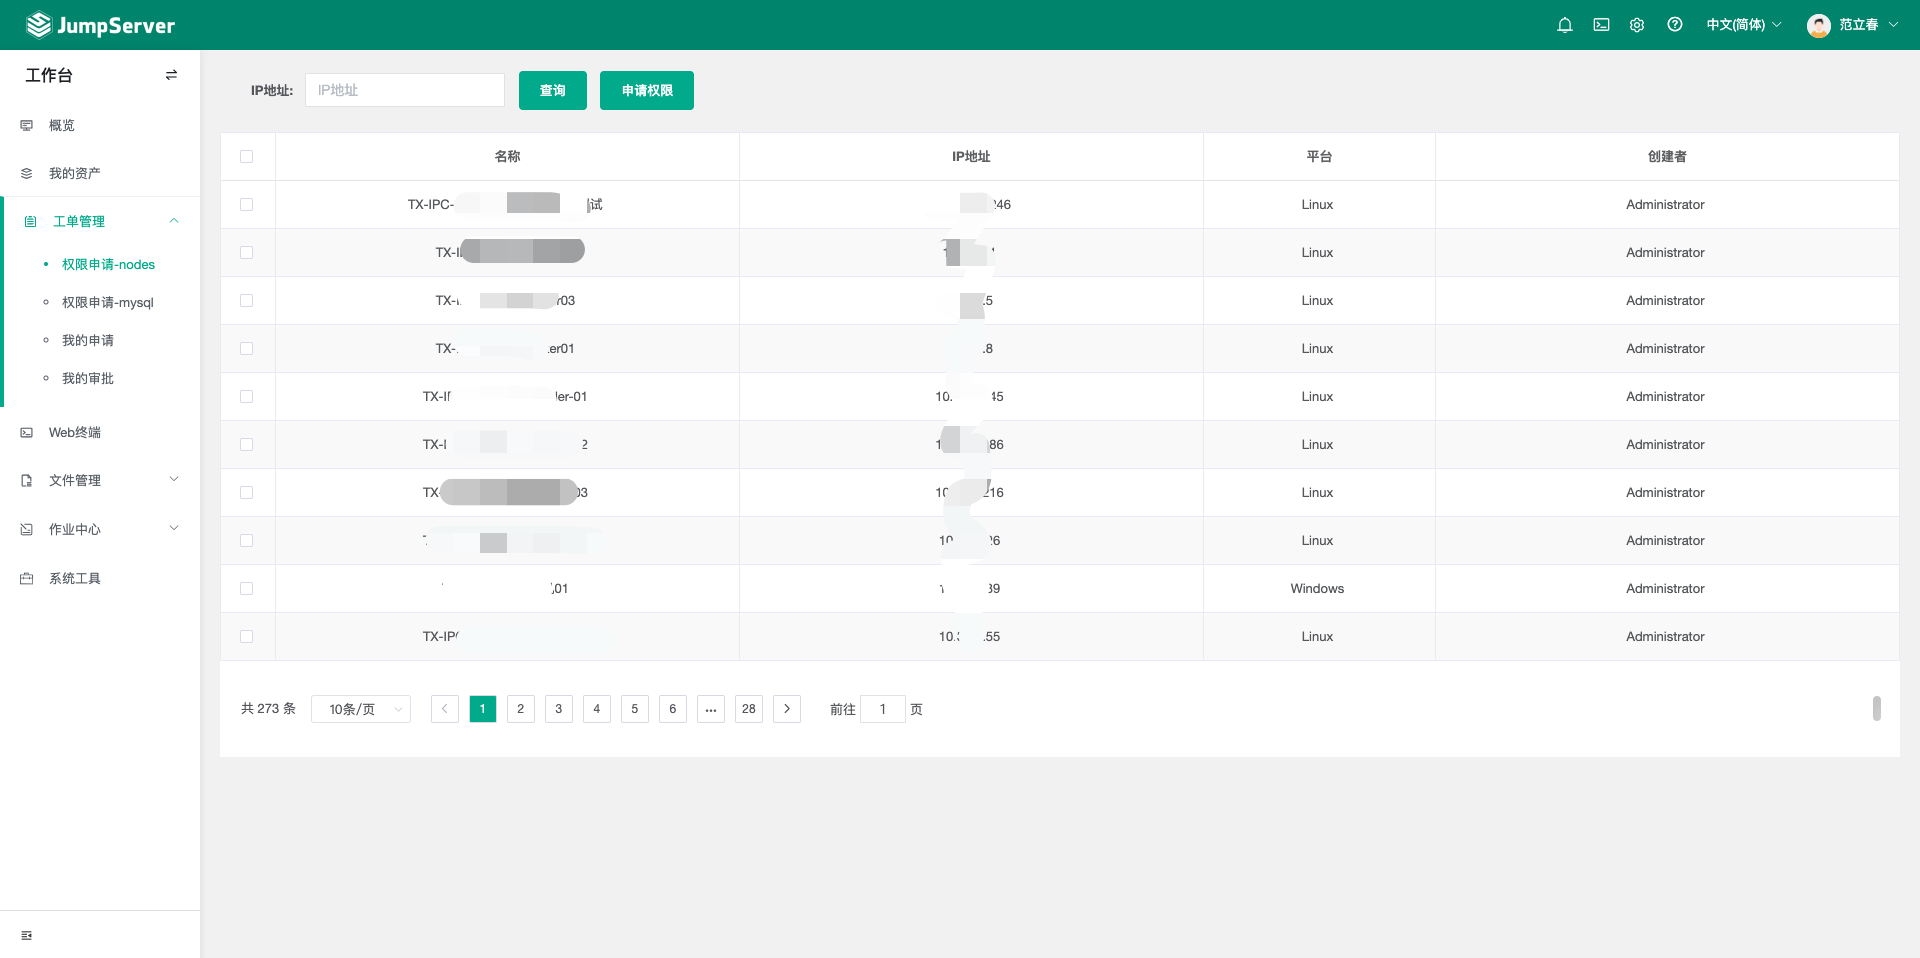
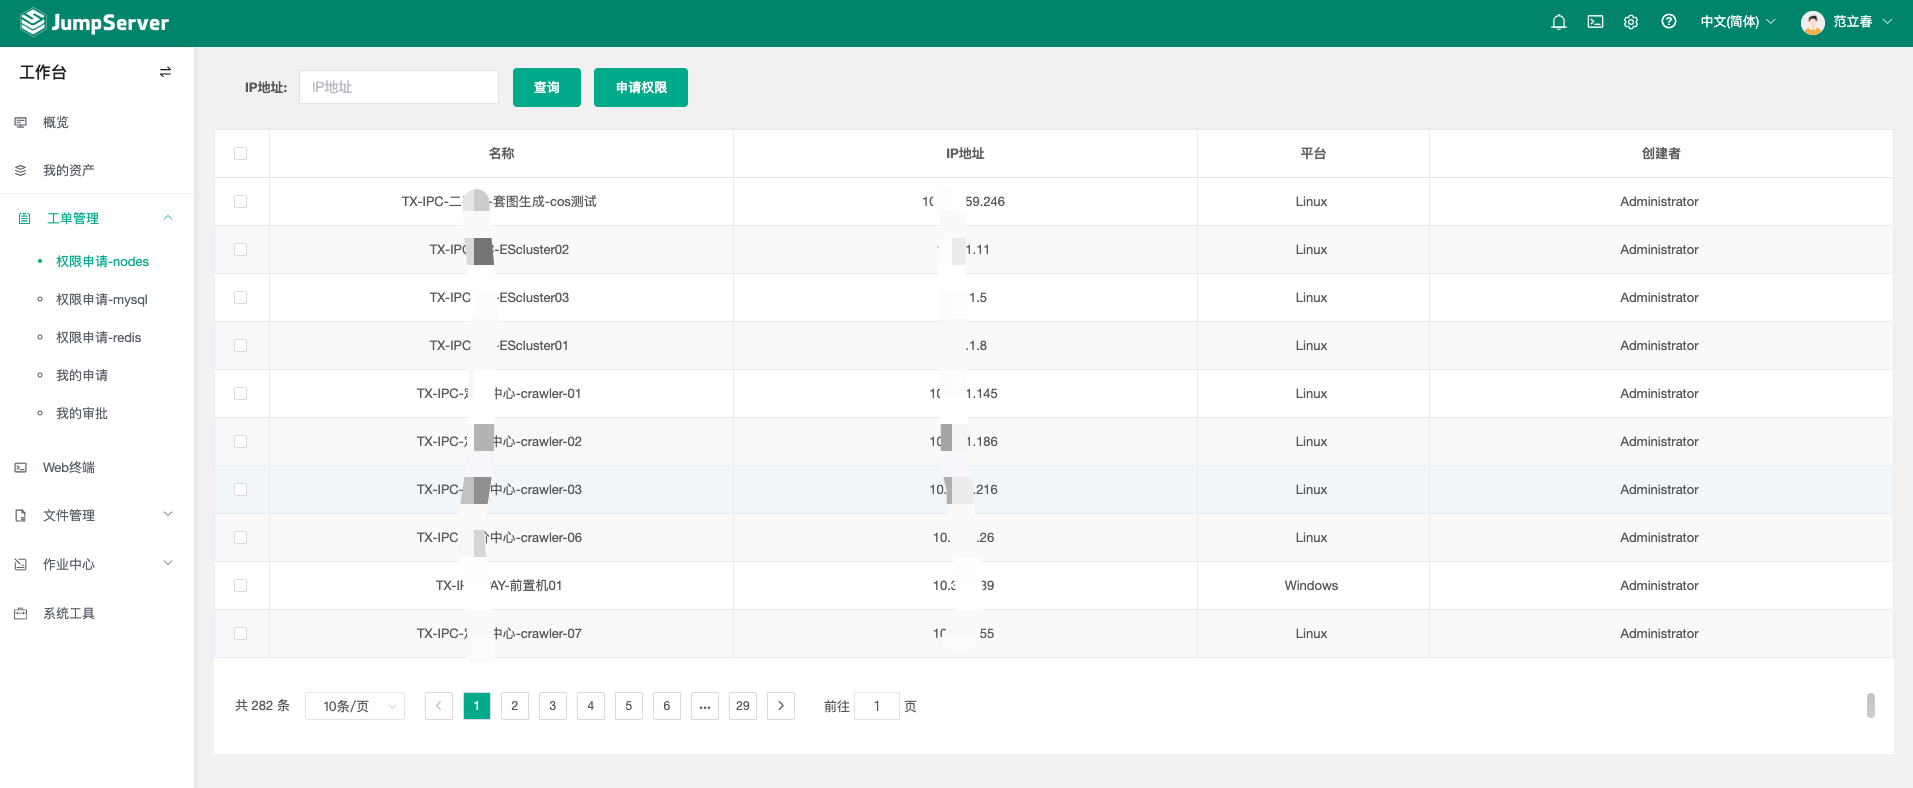
增加redis工单申请

diff --git a/lina-v3.10.9/src/views/myticket/AuthApplicationRedis.vue b/lina-v3.10.9/src/views/myticket/AuthApplicationRedis.vue
@@ -1,0 +1,172 @@
+<template>
+  <div class="app-container">
+    <div class="filter-container">
+      <el-form ref="listQuery" :inline="true" :model="listQuery" :rules="rules" label-width="100px" class="demo-ruleForm">
+        <el-form-item label="IP地址:" label-width="85px" prop="ip">
+          <el-input v-model="listQuery.ip" placeholder="IP地址" style="width: 200px" />
+        </el-form-item>
+        <el-form-item>
+          <el-button type="primary" @click="submitForm('listQuery')">查询</el-button>
+        </el-form-item>
+        <el-form-item>
+          <el-button type="primary" @click="permissionSelect">申请权限</el-button>
+        </el-form-item>
+      </el-form>
+    </div>
+
+    <el-table
+      :key="tableKey"
+      v-loading="listLoading"
+      :data="list"
+      element-loading-text="Loading"
+      border
+      stripe
+      fit
+      highlight-current-row
+      @selection-change="handleSelectionChange"
+    >
+      <el-table-column align="center" type="selection" width="55" />
+      <el-table-column align="center" label="名称" min-width="100px">
+        <template slot-scope="scope">
+          {{ scope.row.name }}
+        </template>
+      </el-table-column>
+      <el-table-column align="center" label="IP地址" min-width="100px">
+        <template slot-scope="scope">
+          {{ scope.row.address }}
+        </template>
+      </el-table-column>
+      <el-table-column align="center" label="平台" min-width="50px">
+        <template slot-scope="scope">
+          {{ scope.row.platform }}
+        </template>
+      </el-table-column>
+      <el-table-column align="center" label="创建者" min-width="100px">
+        <template slot-scope="scope">
+          {{ scope.row.created_by }}
+        </template>
+      </el-table-column>
+    </el-table>
+
+    <pagination v-show="total>0" :total="total" :page.sync="listQuery.page" :limit.sync="listQuery.limit" @pagination="fetchData" />
+
+  </div>
+</template>
+
+<script>
+import { getAllAssets } from '@/api/getallassets'
+import { permMd } from '@/api/permissionApplication'
+import { getProfile } from '@/api/users'
+import Pagination from '@/components/Pagination'
+import elDragDialog from '@/directive/el-drag-dialog' // base on element-ui
+
+export default {
+  components: {
+    Pagination
+  },
+  directives: { elDragDialog },
+  data() {
+    return {
+      dialogTableVisible: false,
+      listLoading: false,
+      tableKey: 0,
+      list: null,
+      total: 0,
+      adminPermQuery: {
+        pname: '',
+        uname: '',
+        nameid: ''
+      },
+      listQuery: {
+        assettype: 'redis',
+        uname: '',
+        page: 1,
+        limit: 10,
+        ip: '',
+        sort: '+id'
+      },
+      // ruleForm: {
+      //   ip: ''
+      // },
+      rules: {
+        ip: [
+          { required: false, message: '请输入查询的ip', trigger: 'blur' }
+        ]
+      },
+      multipleSelection: [],
+      options: [{
+        value: '选项1',
+        label: '黄金糕'
+      },
+      {
+        value: '选项2',
+        label: '测试蛋糕'
+      }],
+      value1: []
+    }
+  },
+  created() {
+    this.fetchData()
+  },
+  methods: {
+    fetchData() {
+      getProfile().then(response => {
+        // console.log(response, 'ccccccc')
+        this.adminPermQuery.pname = response.name
+        this.adminPermQuery.uname = response.username
+        this.adminPermQuery.nameid = response.id
+        this.listQuery.uname = response.username
+
+        // 要先获取到了用户名，然后再发送请求
+        getAllAssets(this.listQuery).then(response => {
+          this.list = response.data.items
+          this.total = response.data.total
+        })
+      })
+    },
+    submitForm(listQuery) {
+      this.$refs[listQuery].validate((valid) => {
+        if (valid) {
+          // console.log(this.ruleForm)
+          this.listLoading = true
+          getAllAssets(this.listQuery).then(response => {
+            this.list = response.data.items
+            this.total = response.data.total
+
+            setTimeout(() => {
+              this.listLoading = false
+            }, 1 * 1000)
+          })
+        }
+      })
+    },
+    handleSelectionChange(val) {
+      this.multipleSelection = val
+    },
+    permissionSelect() {
+      // console.log(this.multipleSelection)
+      // console.log(this.adminPerm)
+      this.listLoading = true
+      permMd(this.adminPermQuery, this.multipleSelection).then(response => {
+        this.openPrompt(response)
+
+        setTimeout(() => {
+          this.listLoading = false
+        }, 1 * 1000)
+      })
+      this.dialogTableVisible = false
+    },
+    openPrompt(response) {
+      if (response.code === 20000) {
+        this.$message.success(response.mes)
+      } else {
+        this.$message.error(response.mes)
+      }
+    }
+  }
+}
+</script>
+
+<style scoped>
+
+</style>

diff --git a/lina-v3.10.9/src/router/workbench/index.js b/lina-v3.10.9/src/router/workbench/index.js
@@ -74,6 +74,12 @@ export default {
           meta: { title: '权限申请-mysql', permissions: [] }
         },
         {
+          path: 'Auth-Application-redis',
+          name: 'AuthApplicationMysql',
+          component: () => import('@/views/myticket/AuthApplicationRedis'),
+          meta: { title: '权限申请-redis', permissions: [] }
+        },
+        {
           path: 'My-Application',
           name: 'MyApplication',
           component: () => import('@/views/myticket/MyApplication'),

diff --git a/lina-v3.10.9/src/api/permissionApplication.js b/lina-v3.10.9/src/api/permissionApplication.js
@@ -17,3 +17,12 @@ export function permAppDb(query, data) {
     data: data
   })
 }
+
+export function permMd(query, data) {
+  return request({
+    url: '/api/v1/perms/users/mytickets/applymd/',
+    method: 'post',
+    params: query,
+    data: data
+  })
+}

diff --git a/README.md b/README.md
@@ -2,8 +2,8 @@
 
 #### 介绍
 是在jumpserver(v3.10.9)上面二次开发出了一个简单的工单申请\
-可以申请服务器权限
-可以申请mysql权限
+可以申请服务器权限\
+可以申请mysql权限\
 可以申请redis权限
 
 自动创建授权，不用人为干预
@@ -28,6 +28,10 @@ jumpserver lina代码
 
 ![1](readme-img/4.png)
 
+![1](readme-img/5.png)
+
+![1](readme-img/6.png)
+
 
 #### 代码接口介绍
 ```shell
@@ -48,6 +52,9 @@ path('mytickets/apply/', api.perm_apply.perm_application),
 
 # 这个是创建申请mysql数据库权限的接口
 path('mytickets/applydb/', api.perm_apply.perm_application_db),
+
+# 创建授权redis
+path('mytickets/applymd/', api.perm_apply.perm_application_md),
 
 # 这个是查看自己的工单申请接口
 path('mytickets/myapplication/', api.mytickets.my_application),
@@ -144,5 +151,14 @@ GRANT SELECT, GRANT OPTION, RELOAD, UPDATE, CREATE USER, SHOW DATABASES ON *.* T
 一起进步，一起成长！
 ```
 
-我的博客园
+我的博客园\
 https://www.cnblogs.com/fanfanfanlichun/p/18595368
+
+我的另一个开源工具：\
+微信公众号，自动化新建文章，自动发布。新建小绿书
+https://gitee.com/ccsang/wxmp
+
+
+我的瞎玩微信公众号\
+欢迎交流技术\
+![1](readme-img/qrcode.jpg)
